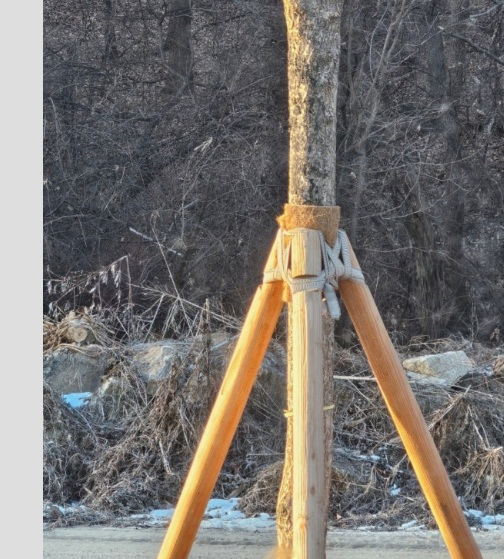
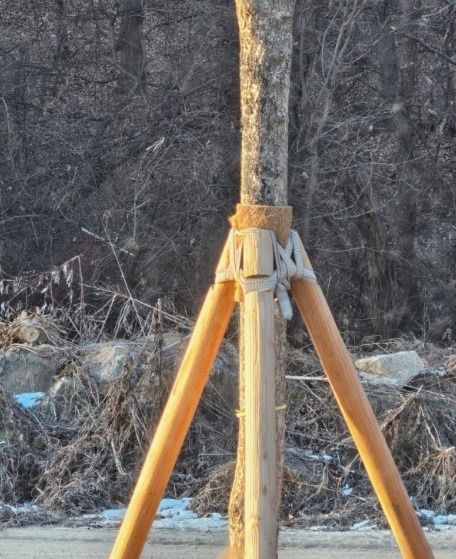
Fix tripod thumbnail crop, tighten facility gaps, revert map note copy
The first tripod-support.jpg source photo had a ~48px solid gray
padding bar baked into its left edge (confirmed via canvas pixel
sampling), which showed up as a dead strip in the product card
thumbnail since object-fit: cover doesn't crop horizontally for a
portrait image in a landscape box. Cropped the source file to remove
it. Also shrink the facility gallery gap so photos read larger, and
point the map note copy back at Naver Map by name while keeping the
embedded/linked map on Google.

diff --git a/src/content.js b/src/content.js
@@ -221,7 +221,8 @@ export const content = {
     eyebrow: "Contact",
     title: "견적/문의",
     desc: "견적 요청 시 아래 정보를 준비해 전화로 문의하시면 더욱 빠르게 안내해 드립니다.<br />제품명(형태) / 규격 / 수량 / 납품지(지역 또는 현장 주소) / 희망 납기",
-    mapNote: "구글 지도에서 상기 주소로 검색하시면 위치 확인이 가능합니다.",
+    mapNote:
+      "네이버 지도에서 “가온지주목” 또는 상기 주소로 검색하시면 위치 확인이 가능합니다.",
   },
 
   footer: {

diff --git a/src/style/facility.css b/src/style/facility.css
@@ -13,7 +13,7 @@
 .facility__grid {
   display: grid;
   grid-template-columns: 1fr;
-  gap: 14px;
+  gap: 6px;
 }
 
 .facility__item {